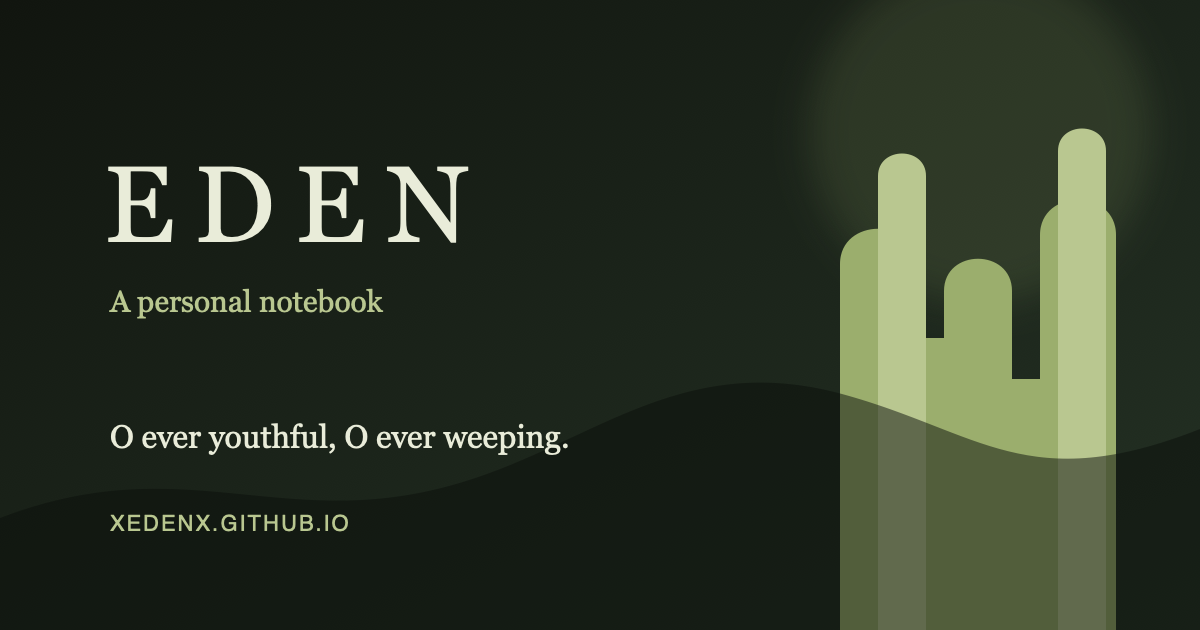
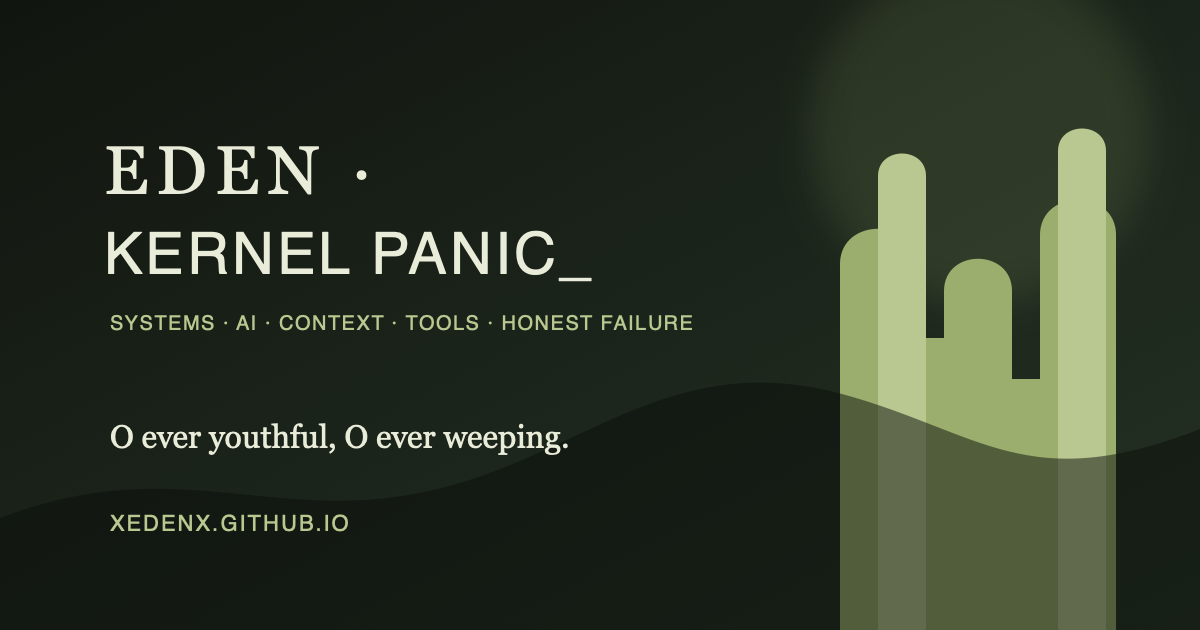
feat: add Kernel Panic brand mark

Changed region(s): [[0.0925, 0.2111, 0.4933, 0.5429], [0.4317, 0.4825, 0.5858, 0.5429]]

diff --git a/src/site.config.ts b/src/site.config.ts
@@ -10,7 +10,7 @@ export const siteConfig: SiteConfig = {
 		- The link value found in src/components/layout/Header.astro L:35
 		- In the footer found in src/components/layout/Footer.astro L:12
 	*/
-	title: "Eden",
+	title: "Eden · KERNEL PANIC",
 	// Used as both a meta property (src/components/BaseHead.astro L:31 + L:49) & the generated satori png (src/pages/og-image/[slug].png.ts)
 	author: "Eden",
 	// Used as the default description meta property and webmanifest description

diff --git a/src/styles/global.css b/src/styles/global.css
@@ -125,6 +125,14 @@
 	.title {
 		@apply text-accent-2 text-2xl font-semibold;
 	}
+
+	.brand-mark__kernel {
+		color: var(--color-accent-2);
+	}
+
+	.brand-mark__cursor {
+		color: var(--color-accent);
+	}
 }
 
 @utility prose {
